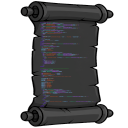
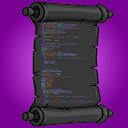
Add files via upload

diff --git a/README.md b/README.md
@@ -1,4 +1,4 @@
-<img align="right" src="https://github.com/Dylbill-Iroh/papyrus-language-by-dylbill/blob/main/Media/icon.png" width="128" alt="icon" />
+<img align="right" src="https://github.com/Dylbill-Iroh/papyrus-language-by-dylbill/blob/main/Media/icon-no-background.png" width="128" alt="icon" />
 
 
 # Papyrus Language by Dylbill
